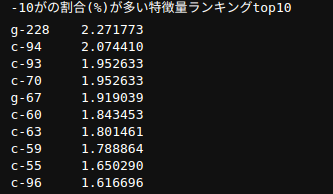
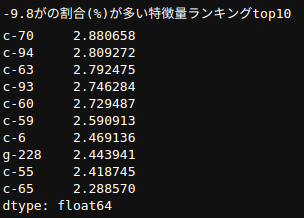
[Update] readme

Changed region(s): [[0.0, 0.1237, 0.4441, 0.9897], [0.0, 0.0, 0.977, 0.0928], [0.2368, 0.1237, 0.4441, 0.1856]]

diff --git a/README.md b/README.md
@@ -482,12 +482,26 @@ sample_submission.csv - 正しい形式の提出ファイル．
 
 ### 20201024
 - nb008
-    - -10が含まれている割合(%)ランキング
+    - -9.8未満が含まれている割合(%)ランキング
 
         <img src='./data/info/readme/026.png' width='300'>  
 
     - 1位
 
         <img src='./data/info/readme/027.png' width='300'>  
+    
+    - -9.8未満を指数分布に置き換えた例
+
+        <img src='./data/info/readme/028.png' width='500'>  
+    
+    - add_exp_noise関数を作成
+        - lowとhighの処理合わせても、数秒程度で終わる
+    
 
 ### 20201026
+- nb009
+    - nb008のadd_exp_noise関数を使う
+    - hoge
+
+### 20201027
+- [tabnetの論文](https://arxiv.org/pdf/1908.07442.pdf)
